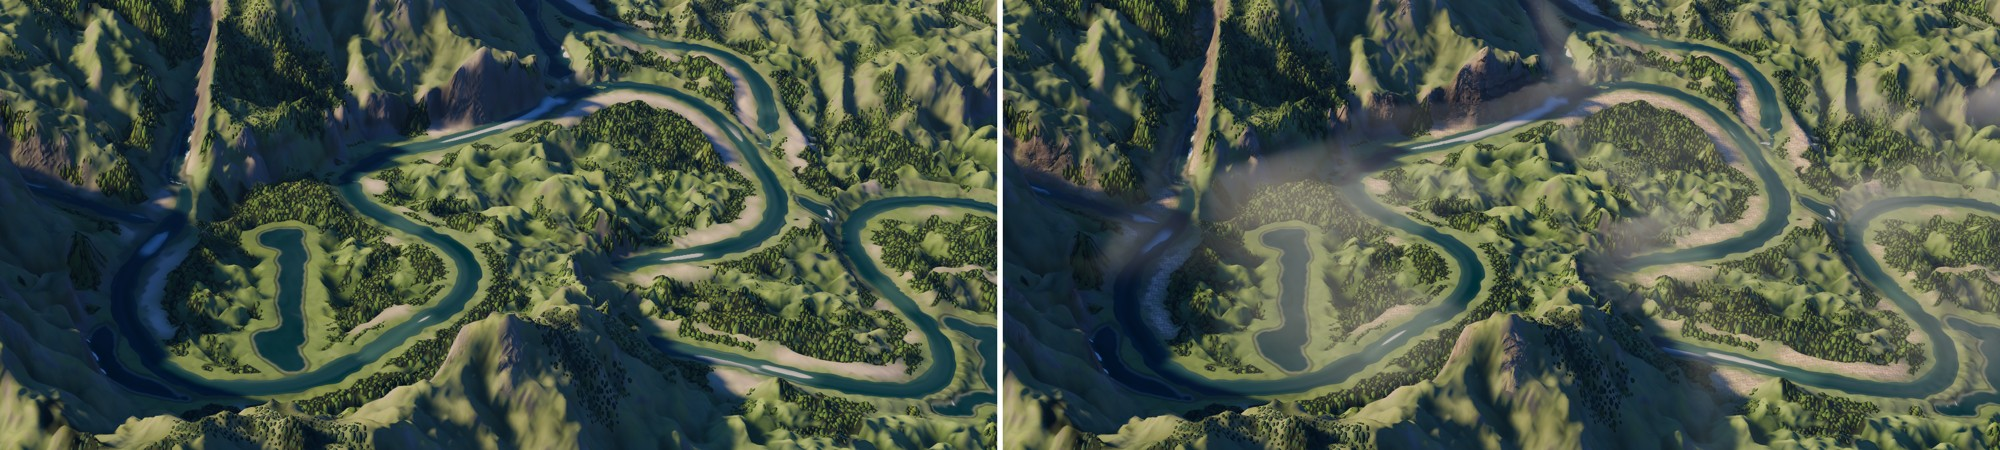
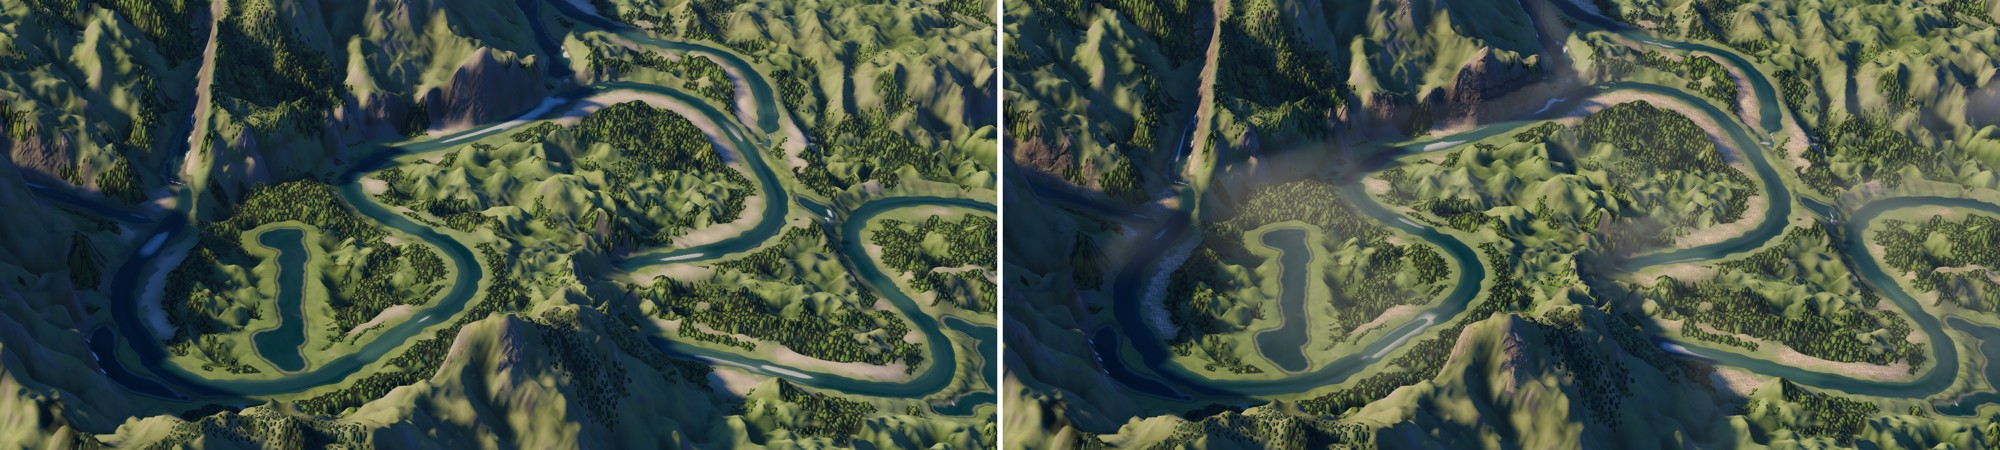
Thin the valley fog and record the judge outcome and the MetalFX check (#237)

diff --git a/docs/graphics-quality.md b/docs/graphics-quality.md
@@ -1538,7 +1538,9 @@ dichter als davor (Tiefenstaffelung). Verworfen: Lage auf dem MITTEL der
 Umgebung (auf breiten Talböden lag sie im Boden, Nebel nur als Saum an den
 Flanken); beleuchtete Lage (las sich im Talschatten als brauner Schmutz);
 volle Deckung bis 0,85 (flutete die Täler, Flüsse verschwanden darunter,
-der Fehler der Look-Iterationen 9 und 17).
+der Fehler der Look-Iterationen 9 und 17). Deckkraft auf Land 0,4: mit 0,65 urteilte der
+Bewerter in `diorama` 5:1 gegen den Nebel („milchiger, graubrauner
+Dunstschleier“), mit 0,4 noch 4:2; Abnahme am Bild durch den Eigner.
 
 **Leistung** (Zeitraffer, Flusstal-Bühne, `balanced`, maximiert 3456×2104,
 M4 Max, interleaved alt/neu nach `scripts/timelapse-timing.sh`, Mittel / p95):
@@ -1556,3 +1558,14 @@ Die Scans selbst sind billiger als die Rausch-Klüftung, die sie ersetzen
 Der Rest in der Detail-Kamera ist Tiefenschärfe und Nebel. Die verbindliche
 Messung gegen das Budget kommt nach dem Rebase auf #235 (Render-Skalierung:
 dann laufen Material und Bokeh auf 0,45 der Pixel).
+
+**Tiefenschärfe mit MetalFX (#235).** Auf `look-a-budget` (1039909) mit
+diesem Zweig obendrauf (Konflikt nur an den `preload`-Zeilen in `Main.gd`):
+Fokusband und Unschärfe wie nativ, keine Säume am Wasser
+(`docs/look/c-materials/ausschnitt-nah-metalfx.jpg`, links nativ, rechts
+MetalFX Spatial 0,67).
+
+**Bewerter** (`scripts/look/judge.sh`, Endstand gegen vorher, 30 Urteile, kein
+Gate): A 5 · B 5 · GLEICH 20. `tal` 0:3 für den Endstand („Felsflanken zeigen
+Riffelung und Schattierung statt glatter Tan-Flächen“), `nah` 1:0, `diorama`
+4:2 gegen ihn, begründet mit dem Talnebel.
